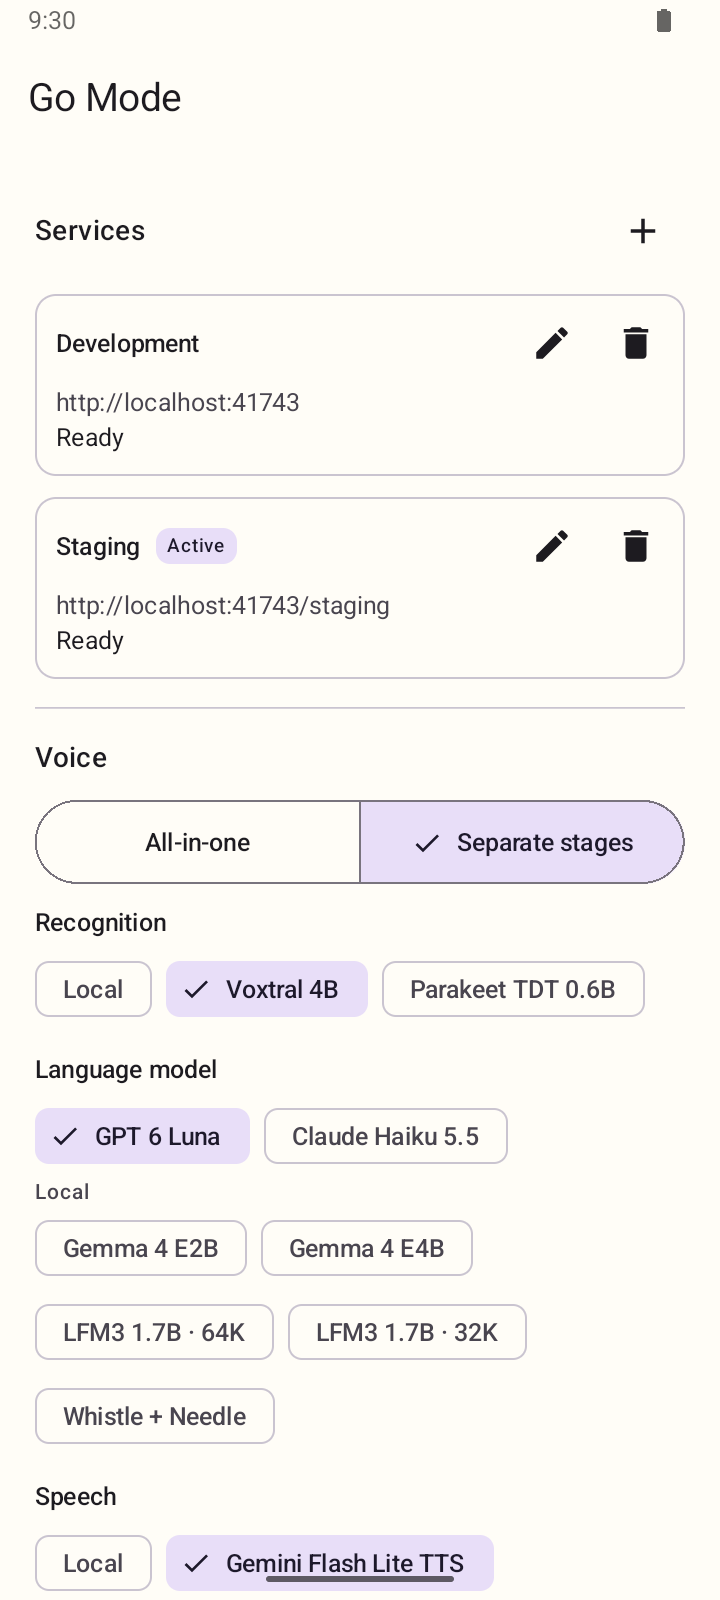
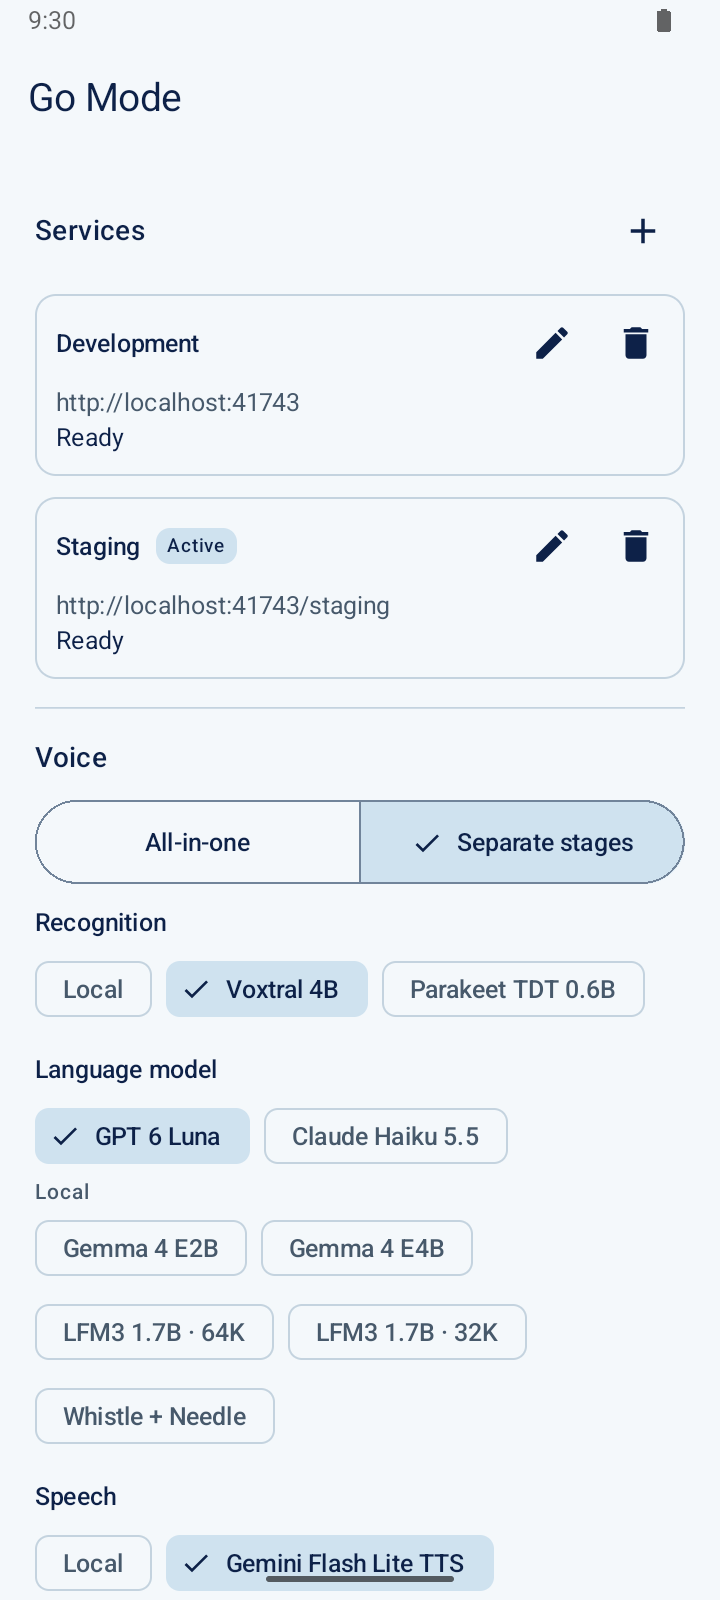
Refresh captures with the app's cerulean palette from gomode c0c3395
The Android app adopted the Brand table palette, so every native
capture changed from green and purple to cerulean.

Validation: pnpm run fix, verify, build, wrangler deploy --dry-run, and
the Playwright suite (2 passed).

diff --git a/AGENTS.md b/AGENTS.md
@@ -10,7 +10,7 @@ Read current [Cloudflare documentation](https://developers.cloudflare.com/worker
 
 ## Last synced
 
-The guides and screenshots were last reconciled against gomode commit `4b814d6e12b69d85721d0b2f2ad5db09dbfbd456` on 2026-11-16. When you update that commit, refresh the screenshots and import them before committing. Review `git log <hash>..HEAD` when updating.
+The guides and screenshots were last reconciled against gomode commit `c0c33957f55cd1f7705b64148b2ce6371cef3d8a` on 2026-11-17. When you update that commit, refresh the screenshots and import them before committing. Review `git log <hash>..HEAD` when updating.
 
 ## Authoring and validation
 
